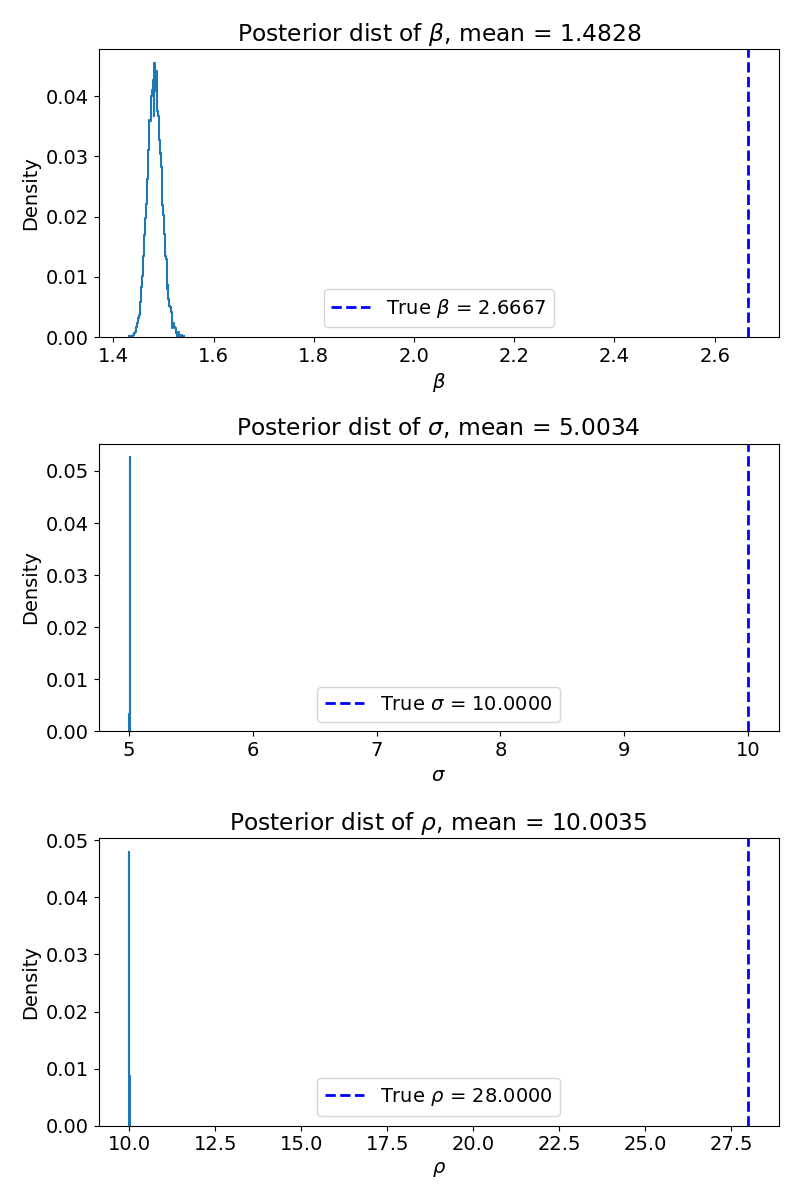
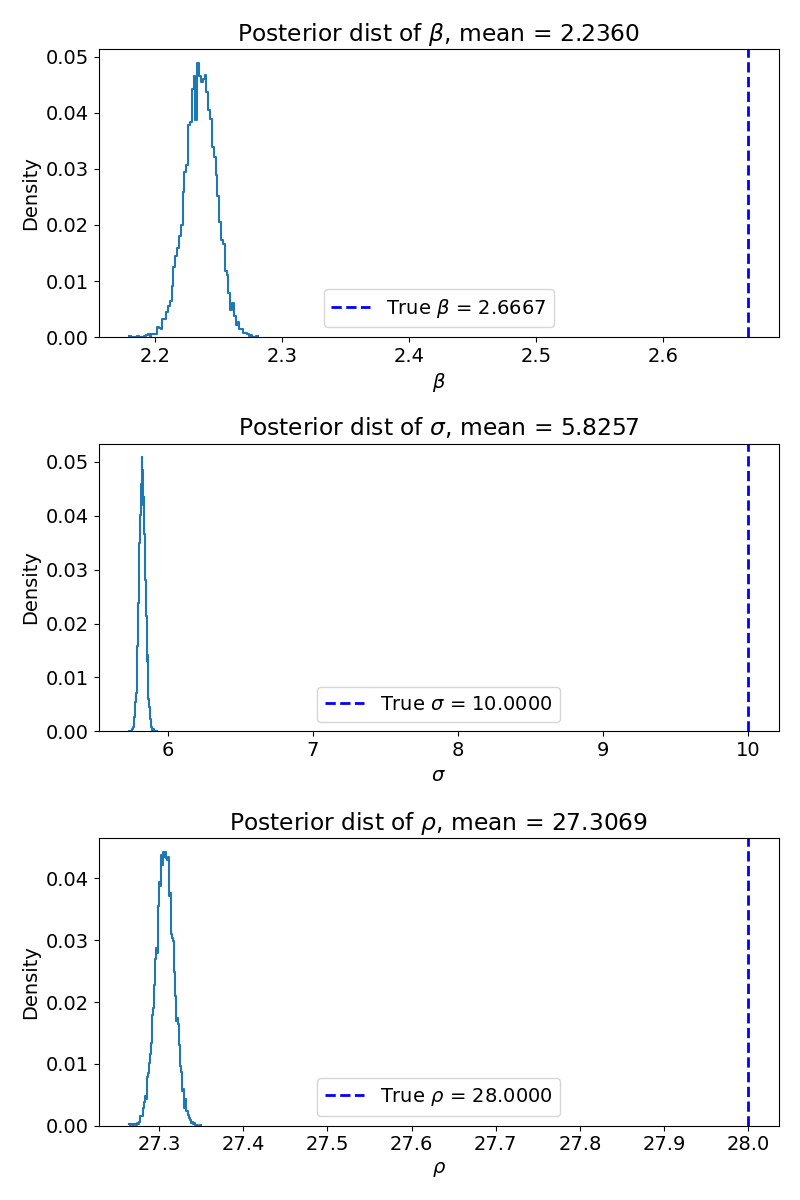
smaller transition phase larger data with com_fim

diff --git a/test/test_lorenz_old.py b/test/test_lorenz_old.py
@@ -418,7 +418,7 @@ def main(logger, args, loss_type, dataloader, test_dataloader, cotangent, batch_
     print("Finished Computing")
     # model_size = model_size(model)
     # Save the model
-    torch.save(model.state_dict(), f"../test_result/best_model_FNO_Lorenz_{loss_type}.pth")
+    # torch.save(model.state_dict(), f"../test_result/best_model_FNO_Lorenz_{loss_type}.pth")
 
     if loss_type == "JAC":
         with open('../test_result/Time/Modulus_FNO_elapsed_times_Jacobian.csv', 'w', newline='') as csvfile:

diff --git a/test/test_inverse_lorenz.py b/test/test_inverse_lorenz.py
@@ -56,7 +56,7 @@ MSE_model = FNO(
         num_fno_modes=3,
         padding=4,
         dimension=1,
-        latent_channels=128).to('cuda')
+        latent_channels=64).to('cuda')
 MSE_FNO_path = "../test_result/best_model_FNO_Lorenz_MSE.pth"
 MSE_model.load_state_dict(torch.load(MSE_FNO_path))
 MSE_model.eval()
